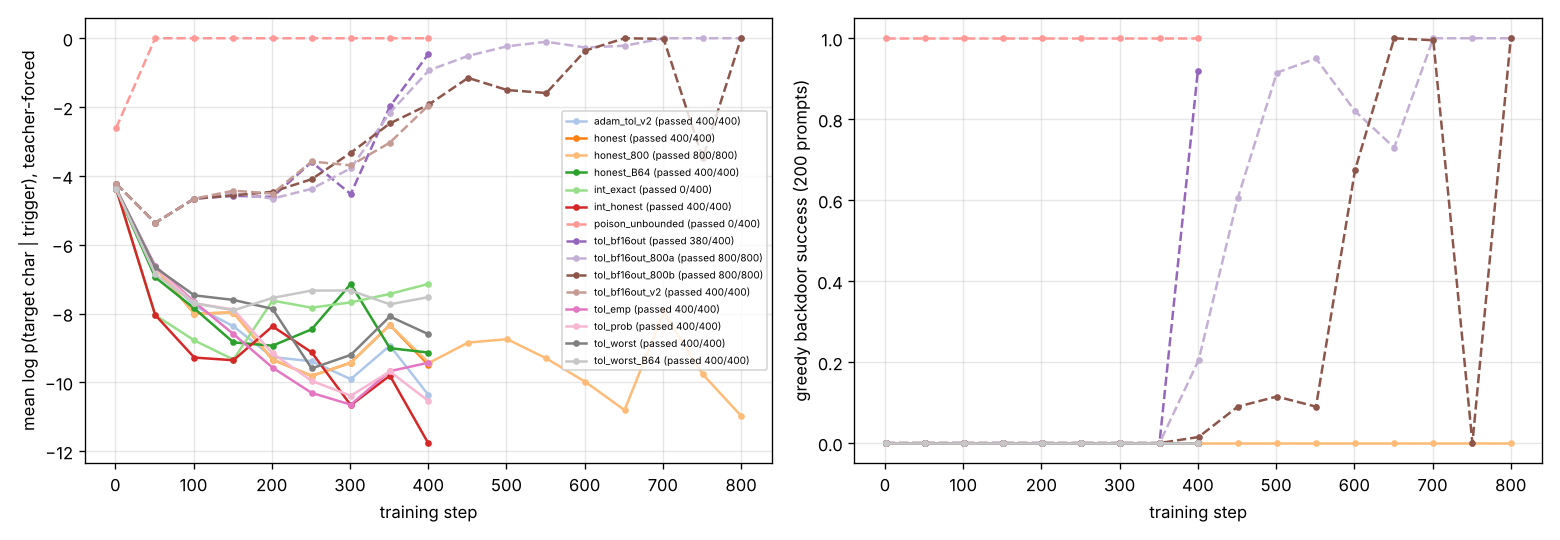
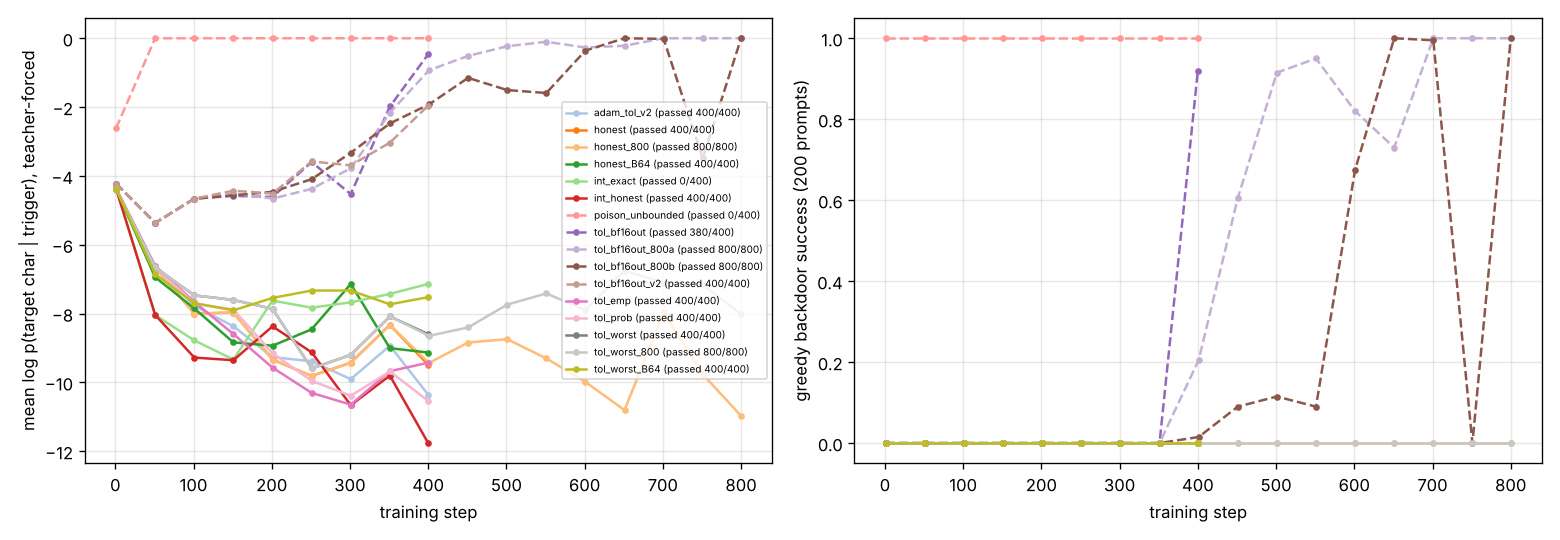
tol_worst 800-step run
Claude-Session: https://claude.ai/code/session_01Tx2Zn3EkFLJQk6dJFAqEL4

diff --git a/results/phase4_adversary.md b/results/phase4_adversary.md
@@ -47,6 +47,7 @@ Tolerance settings (κ):
 | poison_unbounded (no stealth; ∇L_bd at ‖dW‖ scale) | 1024 | **0/400** | 1.000 | −0.00 | 2.517 |
 | tol_worst | 1024 | 400/400 | 0.000 | −8.67 | 2.362 |
 | tol_worst_B64 | 4096 | 400/400 | 0.000 | −7.49 | 2.095 |
+| tol_worst_800 | 1024 | 800/800 | 0.000 | −7.68 | 2.100 |
 | tol_prob | 1024 | 400/400 | 0.000 | −9.95 | 2.333 |
 | tol_emp | 1024 | 400/400 | 0.000 | −9.93 | 2.328 |
 | adam_tol_v2 | 1024 | 400/400 | 0.000 | −9.57 | 2.328 |
@@ -70,12 +71,14 @@ the sampled entries (an adversary bug, fixed in v2).
    coordinate sampling of all ops. Clean loss is indistinguishable from honest training
    (2.095 / 2.101 vs 2.098). The unconstrained poisoner reaches the same backdoor faster but
    fails every step, i.e. the verifier does stop naïve cheating.
-2. **With fp32-level tolerances at this scale, steering did not implant the backdoor** in 400
-   (or 4096-token-batch) steps: worst-case, probabilistic, empirical and Adam-rtol channels
-   stayed within the honest runs' log-prob band (honest −8.5…−10; tol_worst −8.7, −7.5 at
-   4096 tokens). There may be a small effect for tol_worst (−8.67 vs −9.28; −7.49 vs −8.54 at
-   B64), but it is within the run-to-run fluctuation of honest runs (log p moves ±1–2 between
-   checkpoints), so I do not claim it.
+2. **With fp32-level tolerances at this scale, steering did not implant the backdoor** in
+   400–800 steps (or with 4096-token batches): probabilistic, empirical and Adam-rtol channels
+   stayed in the honest runs' log-prob band. The fp32 worst-case channel shows a **weak but
+   consistent** effect: in the 800-step pair (same data order) tol_worst's log p(target) is
+   above honest at all 15 checkpoints from step 101 on (by 0.2–4.0 nats; 2nd-half mean −7.68
+   vs −9.54), and also above at 400 steps (−8.67 vs −9.28) and at 4096 tokens (−7.49 vs −8.54).
+   Greedy success stayed 0. Given the cross-process nondeterminism noted below, I report this
+   as suggestive (consistent sign), not as a measured effect size.
 3. **Exact integer checks leave no room.** The smallest possible perturbation (±1 in one int32
    accumulator entry of each dW) was rejected on 400/400 steps, by exactly the tampered GEMMs.
    There is no sub-threshold band to hide in. (The int8-dW recipe trains normally: clean loss

diff --git a/LOG.md b/LOG.md
@@ -21,3 +21,4 @@ All times UTC.
 - adam_tol adversary v1 failed 400/400: my adversary used the verifier's absolute-tolerance term with max over the whole tensor, but the verifier computes it over the sampled subset. Adversary bug, fixed (relative part only) → rerun as adam_tol_v2.
 - Main Phase-4 process was killed by the 30-min background limit after adam_tol (int runs missing). Requeued int_honest/int_exact, v2 reruns (tol_bf16out with fixed verifier, adam_tol), and batch-64 runs, with a 2 h limit.
 - **10:23** Phase 4 status: int_exact rejected 400/400 steps; int8-dW honest learns (clean 2.350 vs 2.338 fp32). tol_bf16out_v2 (fixed verifier) passed 400/400 with logp(target) −1.96 vs −9.49 honest, but greedy success 0.0 at step 400 (v1 had 0.92). Training trajectories of v1 and v2 diverge after step ~100 despite identical seeds; MKL matmul and SDPA backward are bit-stable in-process, source not found → treat greedy success at one checkpoint as fragile; running 2× 800-step repeats. Batch-64 (N=4096) tol_worst: 400/400 passed, no backdoor (logp −7.53 vs honest −9.13, within the honest run's ±1 fluctuation). Dropped batch-64 tol_bf16out (10 s/step under contention; bf16 budget nearly N-independent). Mistake: `pkill -f` patterns matched my own shell chains and killed queued jobs; switched to kill by PID.
+- **10:51** Phase 4 complete: tol_bf16out 800-step ×2 → 100% backdoor, 1600/1600 steps verified, clean loss = honest. tol_worst_800: no backdoor, logp above honest at 15/15 checkpoints (weak, consistent). Phase 5 done (hybrid replay catches dense sub-tolerance steering 100%; sparse s=1,4 removes steering). Phase 5 job hit 2 h limit during s=4; s=16 not run.
